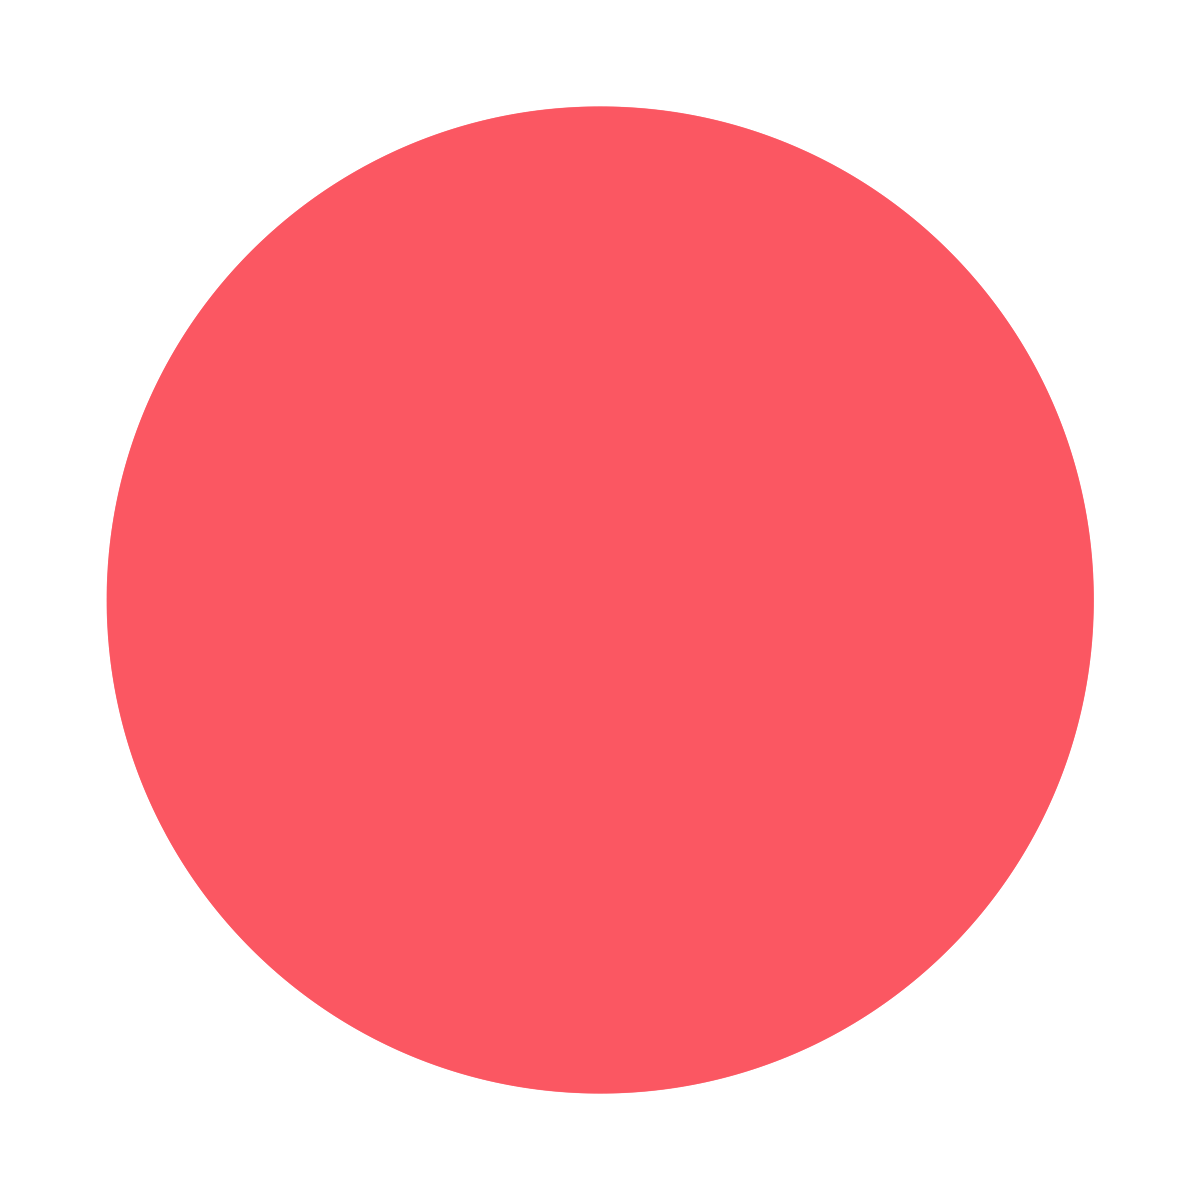
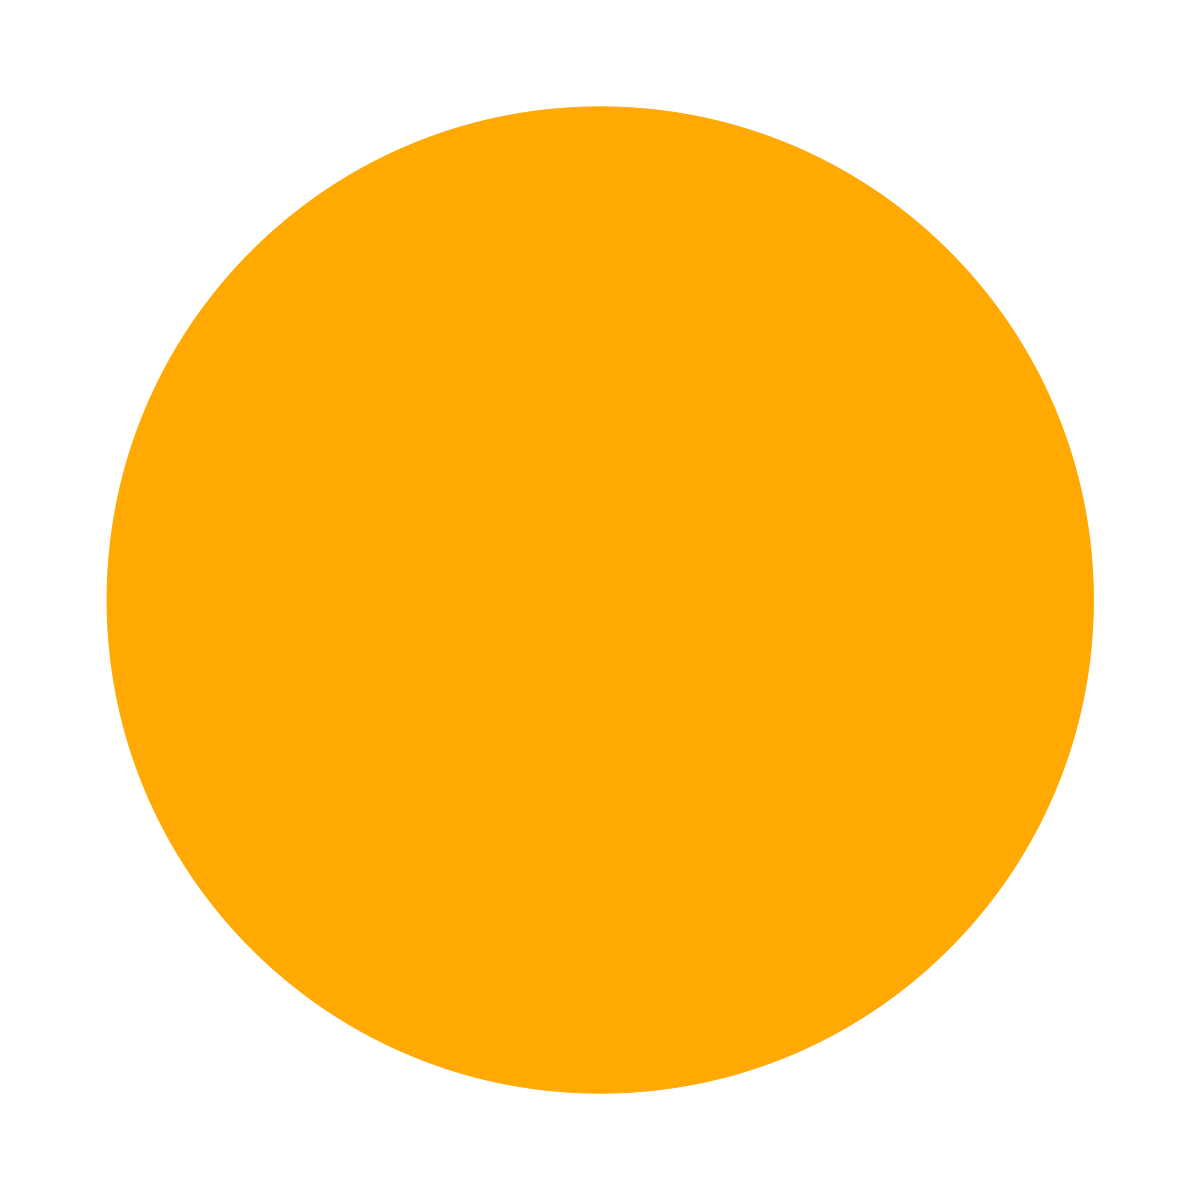
change color and size of dots

diff --git a/app/javascript/controllers/map_controller.js b/app/javascript/controllers/map_controller.js
@@ -54,8 +54,8 @@ export default class extends Controller {
       customMarker.className = "marker"
       customMarker.style.backgroundImage = `url('${marker.image_url}')`
       customMarker.style.backgroundSize = "contain"
-      customMarker.style.width = "16px"
-      customMarker.style.height = "16px"
+      customMarker.style.width = "20px"
+      customMarker.style.height = "20px"
       customMarker.style.opacity = "50%"
 
       new mapboxgl.Marker(customMarker)

diff --git a/db/schema.rb b/db/schema.rb
@@ -59,7 +59,7 @@ ActiveRecord::Schema[7.0].define(version: 2022_11_30_154916) do
     t.text "comment"
     t.string "category"
     t.string "location"
-    t.boolean "acitve", default: true, null: false
+    t.boolean "active", default: true, null: false
     t.bigint "user_id", null: false
     t.datetime "created_at", null: false
     t.datetime "updated_at", null: false
